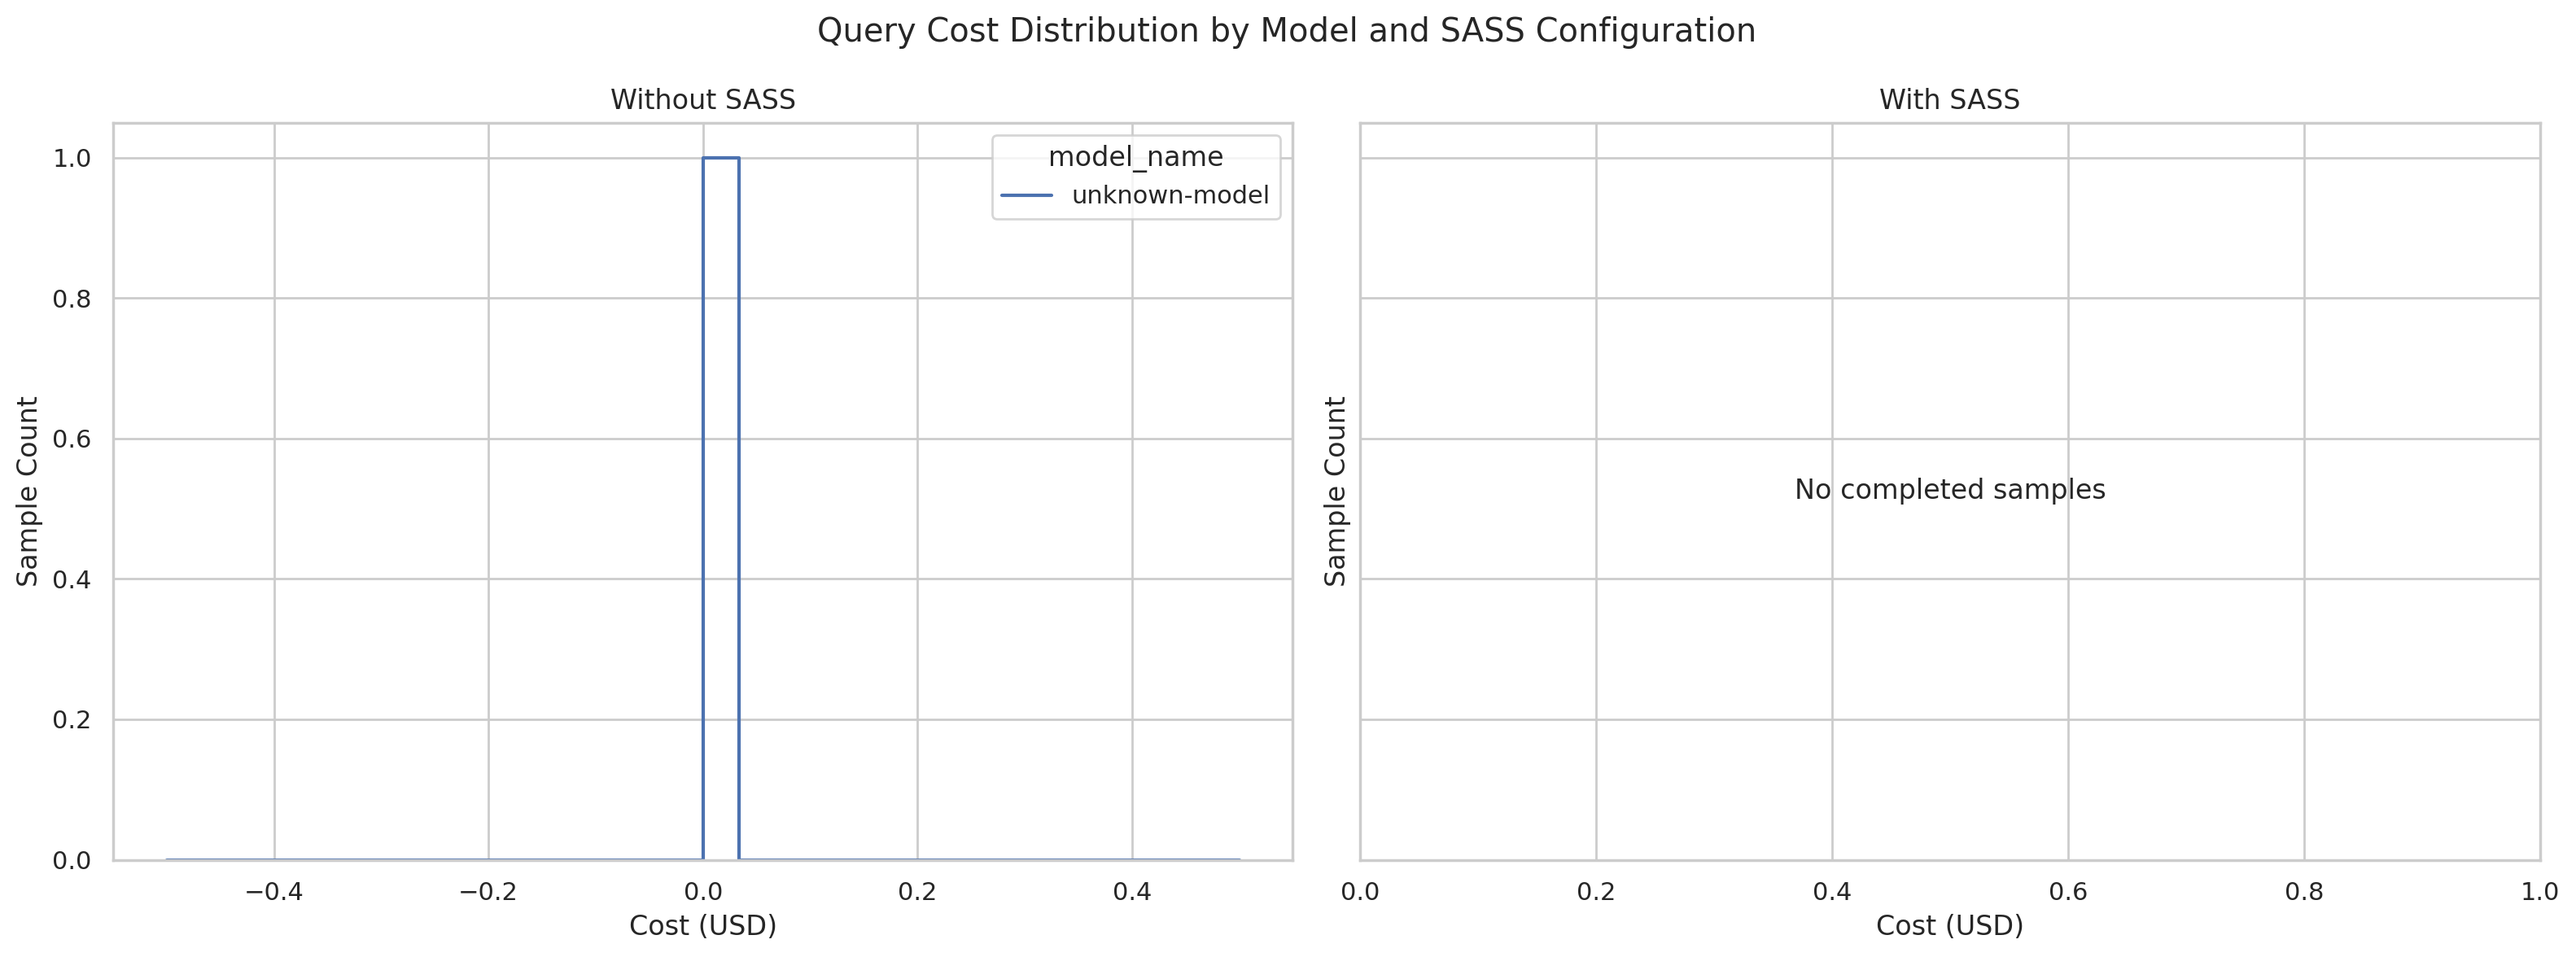
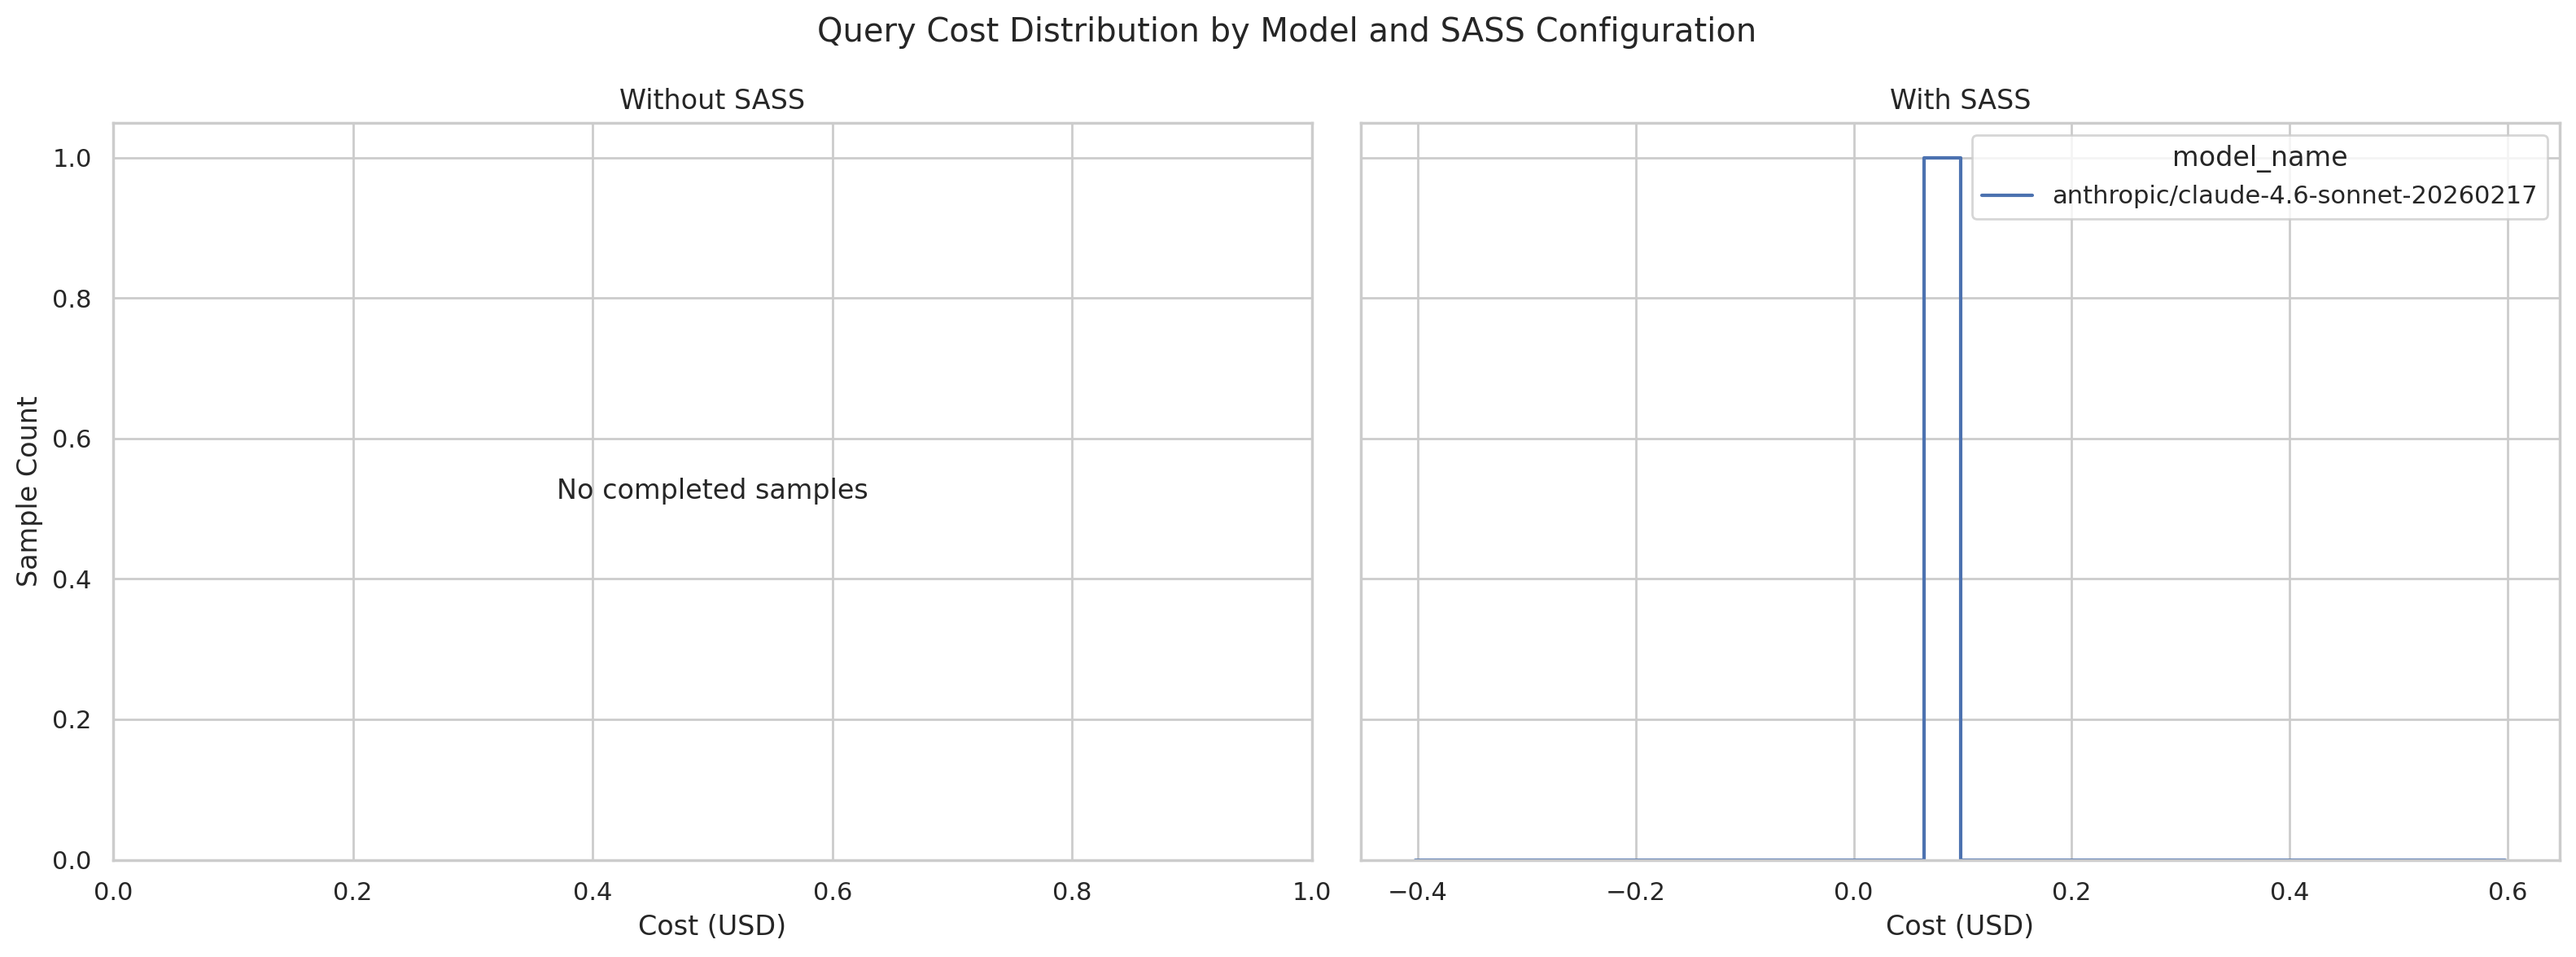
visualizations working, going to test some more

diff --git a/experiments/direct-prompting/visualize_results.py b/experiments/direct-prompting/visualize_results.py
@@ -35,7 +35,7 @@ ensure_postgres_running = db_manager_mod.ensure_postgres_running
 
 
 THREAD_PATTERN = re.compile(
-	r"_(?P<gpu>A100|3080|H100|A10)_(?P<safe_model>.+)_(?P<sass>withsass|nosass)_trial(?P<trial>\d+)(?:_DRYRUN\d+)?$"
+	r"_(?P<gpu>A100|3080|H100|A10)_(?P<safe_model>.+)_(?P<sass>withsass|nosass)_trial(?P<trial>\d+)(?:_DRYRUN(?:\d+)?)?$"
 )
 
 METRIC_LABELS = {
@@ -115,6 +115,12 @@ def _is_dry_run_thread(thread_id: str) -> bool:
 	return "_DRYRUN" in thread_id or thread_id.endswith("_DRYRUN")
 
 
+def _stored_thread_ids(checkpoints: List[Dict[str, Any]], attempts: Dict[str, Dict[str, Any]]) -> set[str]:
+	checkpoint_thread_ids = {checkpoint["thread_id"] for checkpoint in checkpoints}
+	attempt_thread_ids = set(attempts.keys())
+	return checkpoint_thread_ids | attempt_thread_ids
+
+
 def _thread_metadata(thread_id: str) -> Dict[str, Any]:
 	match = THREAD_PATTERN.search(thread_id)
 	if not match:
@@ -134,6 +140,15 @@ def _thread_metadata(thread_id: str) -> Dict[str, Any]:
 		"use_sass": match.group("sass") == "withsass",
 		"trial": int(match.group("trial")),
 	}
+
+
+def _require_mapping_keys(mapping: Dict[str, Any], required_keys: List[str], context: str) -> None:
+	missing_keys = [key for key in required_keys if key not in mapping]
+	if missing_keys:
+		available_keys = sorted(mapping.keys())
+		raise KeyError(
+			f"{context} is missing required keys {missing_keys}. Available keys: {available_keys}"
+		)
 
 
 def _tail_checkpoint_by_thread(checkpoints: Iterable[Dict[str, Any]]) -> Dict[str, Dict[str, Any]]:
@@ -224,6 +239,28 @@ def _extract_completed_records(
 			continue
 
 		state = checkpoint["checkpoint"]["channel_values"]
+		_require_mapping_keys(
+			state,
+			[
+				"metrics_diff",
+				"metrics_pct_diff",
+				"program_name",
+				"kernel_mangled_name",
+				"kernel_demangled_name",
+				"llm_model_name",
+				"query_time",
+				"cost_usd",
+				"input_tokens",
+				"output_tokens",
+				"total_tokens",
+				"expected_fp16",
+				"expected_fp32",
+				"expected_fp64",
+				"expected_read_bytes",
+				"expected_write_bytes",
+			],
+			f"Completed checkpoint tail for thread {thread_id}",
+		)
 		metadata = _thread_metadata(thread_id)
 		metrics_diff = state["metrics_diff"]
 		metrics_pct_diff = state["metrics_pct_diff"]
@@ -249,12 +286,12 @@ def _extract_completed_records(
 			"expected_fp64": pd.to_numeric(state["expected_fp64"], errors="coerce"),
 			"expected_read_bytes": pd.to_numeric(state["expected_read_bytes"], errors="coerce"),
 			"expected_write_bytes": pd.to_numeric(state["expected_write_bytes"], errors="coerce"),
-			"sample_mean_pct_diff": np.nan,
+			"sample_mean_pct_diff": _sample_mean_pct_diff(metrics_pct_diff),
 		}
 
 		for metric_key in METRIC_LABELS:
 			record[f"metrics_diff_{metric_key}"] = pd.to_numeric(metrics_diff[metric_key], errors="coerce")
-			record[f"metrics_pct_diff_{metric_key}"] = np.nan
+			record[f"metrics_pct_diff_{metric_key}"] = pd.to_numeric(metrics_pct_diff[metric_key], errors="coerce")
 
 		records.append(record)
 
@@ -281,6 +318,15 @@ def _extract_failed_records(
 
 		metadata = _thread_metadata(thread_id)
 		partial_state = latest_checkpoints[thread_id]["checkpoint"]["channel_values"]
+		_require_mapping_keys(
+			partial_state,
+			[
+				"program_name",
+				"kernel_mangled_name",
+				"kernel_demangled_name",
+			],
+			f"Latest checkpoint tail for failed thread {thread_id}",
+		)
 		records.append(
 			{
 				"thread_id": thread_id,
@@ -334,41 +380,6 @@ def _database_dataframe(checkpoints: List[Dict[str, Any]], attempts: Dict[str, D
 		full_df["model_name"] = full_df["model_name"].fillna("unknown-model")
 	if "use_sass" in full_df.columns:
 		full_df["use_sass"] = full_df["use_sass"].fillna(False)
-
-	completed_mask = full_df["status"] == "completed"
-	expected_column_map = {
-		"fp16": "expected_fp16",
-		"fp32": "expected_fp32",
-		"fp64": "expected_fp64",
-		"read_bytes": "expected_read_bytes",
-		"write_bytes": "expected_write_bytes",
-	}
-	metric_pct_columns: List[str] = []
-	for metric_key, expected_column in expected_column_map.items():
-		pct_column = f"metrics_pct_diff_{metric_key}"
-		metric_pct_columns.append(pct_column)
-		diff_column = f"metrics_diff_{metric_key}"
-		full_df[pct_column] = np.nan
-		if diff_column not in full_df.columns or expected_column not in full_df.columns:
-			continue
-
-		expected_series = pd.to_numeric(full_df.loc[completed_mask, expected_column], errors="coerce")
-		diff_series = pd.to_numeric(full_df.loc[completed_mask, diff_column], errors="coerce")
-		pct_series = pd.Series(np.nan, index=expected_series.index, dtype=float)
-
-		nonzero_mask = expected_series.notna() & (expected_series != 0)
-		pct_series.loc[nonzero_mask] = (diff_series.loc[nonzero_mask].abs() / expected_series.loc[nonzero_mask].abs()) * 100.0
-
-		zero_expected_mask = expected_series == 0
-		zero_and_match_mask = zero_expected_mask & (diff_series == 0)
-		zero_and_miss_mask = zero_expected_mask & (diff_series != 0)
-		pct_series.loc[zero_and_match_mask] = 0.0
-		pct_series.loc[zero_and_miss_mask] = np.inf
-
-		full_df.loc[completed_mask, pct_column] = pct_series
-
-	if metric_pct_columns:
-		full_df["sample_mean_pct_diff"] = full_df[metric_pct_columns].replace([np.inf, -np.inf], np.nan).mean(axis=1, skipna=True)
 
 	return full_df
 
@@ -718,10 +729,32 @@ def build_visualizations(db_uri: str, output_dir: Path, include_dry_run: bool) -
 	attempt_tracker = QueryAttemptTracker(db_uri)
 	try:
 		checkpoints = parser.fetch_all_checkpoints()
+		tail_checkpoints = _tail_checkpoint_by_thread(checkpoints)
+		for checkpoint in tail_checkpoints.values():
+			channel_values = checkpoint["checkpoint"]["channel_values"]
+			if "total_tokens" in channel_values:
+				parser.hydrate_checkpoint_channels(
+					checkpoint,
+					["metrics_diff", "metrics_pct_diff", "metrics_explanations"],
+				)
 		attempts = attempt_tracker.fetch_all_attempts()
 	finally:
 		parser.close()
 		attempt_tracker.close()
+
+	stored_thread_ids = _stored_thread_ids(checkpoints, attempts)
+	if not stored_thread_ids:
+		raise RuntimeError("No checkpoint or query-attempt records were found in the database.")
+
+	if not include_dry_run:
+		non_dry_run_thread_ids = {
+			thread_id for thread_id in stored_thread_ids if not _is_dry_run_thread(thread_id)
+		}
+		if not non_dry_run_thread_ids:
+			raise RuntimeError(
+				"The database currently contains only dry-run thread IDs. "
+				"Re-run with --includeDryRun or populate the database with non-dry experiment runs."
+			)
 
 	samples_df = _database_dataframe(checkpoints, attempts, include_dry_run)
 

diff --git a/experiments/direct-prompting/db_manager.py b/experiments/direct-prompting/db_manager.py
@@ -6,6 +6,7 @@ import os
 from psycopg.errors import DuplicateDatabase, UndefinedTable
 import json
 from typing import Dict, Any, List
+from langgraph.checkpoint.serde.jsonplus import JsonPlusSerializer
 
 
 def _discover_postgres_cluster(port: int = 5432) -> dict | None:
@@ -227,6 +228,7 @@ class CheckpointDBParser:
     def __init__(self, db_uri: str):
         self.db_uri = db_uri
         self.conn = psycopg.connect(self.db_uri)
+        self.serde = JsonPlusSerializer()
 
     def fetch_all_checkpoints(self) -> List[Dict[str, Any]]:
         query = (
@@ -258,6 +260,47 @@ class CheckpointDBParser:
                     "checkpoint": checkpoint_dict
                 })
         return checkpoints
+
+    def fetch_checkpoint_blob_value(
+        self,
+        thread_id: str,
+        checkpoint_ns: str,
+        channel: str,
+        version: str,
+    ) -> Any:
+        query = (
+            "SELECT type, blob FROM checkpoint_blobs "
+            "WHERE thread_id = %s AND checkpoint_ns = %s AND channel = %s AND version = %s"
+        )
+        with self.conn.cursor() as cur:
+            cur.execute(query, (thread_id, checkpoint_ns, channel, version))
+            row = cur.fetchone()
+
+        if row is None:
+            raise KeyError(
+                "No checkpoint_blobs row found for "
+                f"thread_id={thread_id}, checkpoint_ns={checkpoint_ns!r}, channel={channel}, version={version}"
+            )
+
+        type_name, blob = row
+        return self.serde.loads_typed((type_name, bytes(blob)))
+
+    def hydrate_checkpoint_channels(self, checkpoint_record: Dict[str, Any], channels: List[str]) -> None:
+        checkpoint_payload = checkpoint_record["checkpoint"]
+        channel_values = checkpoint_payload["channel_values"]
+        channel_versions = checkpoint_payload["channel_versions"]
+
+        for channel in channels:
+            if channel in channel_values:
+                continue
+
+            version = channel_versions[channel]
+            channel_values[channel] = self.fetch_checkpoint_blob_value(
+                checkpoint_record["thread_id"],
+                checkpoint_record["checkpoint_ns"],
+                channel,
+                version,
+            )
 
     def calculate_summary_statistics(self) -> Dict[str, Any]:
         """
